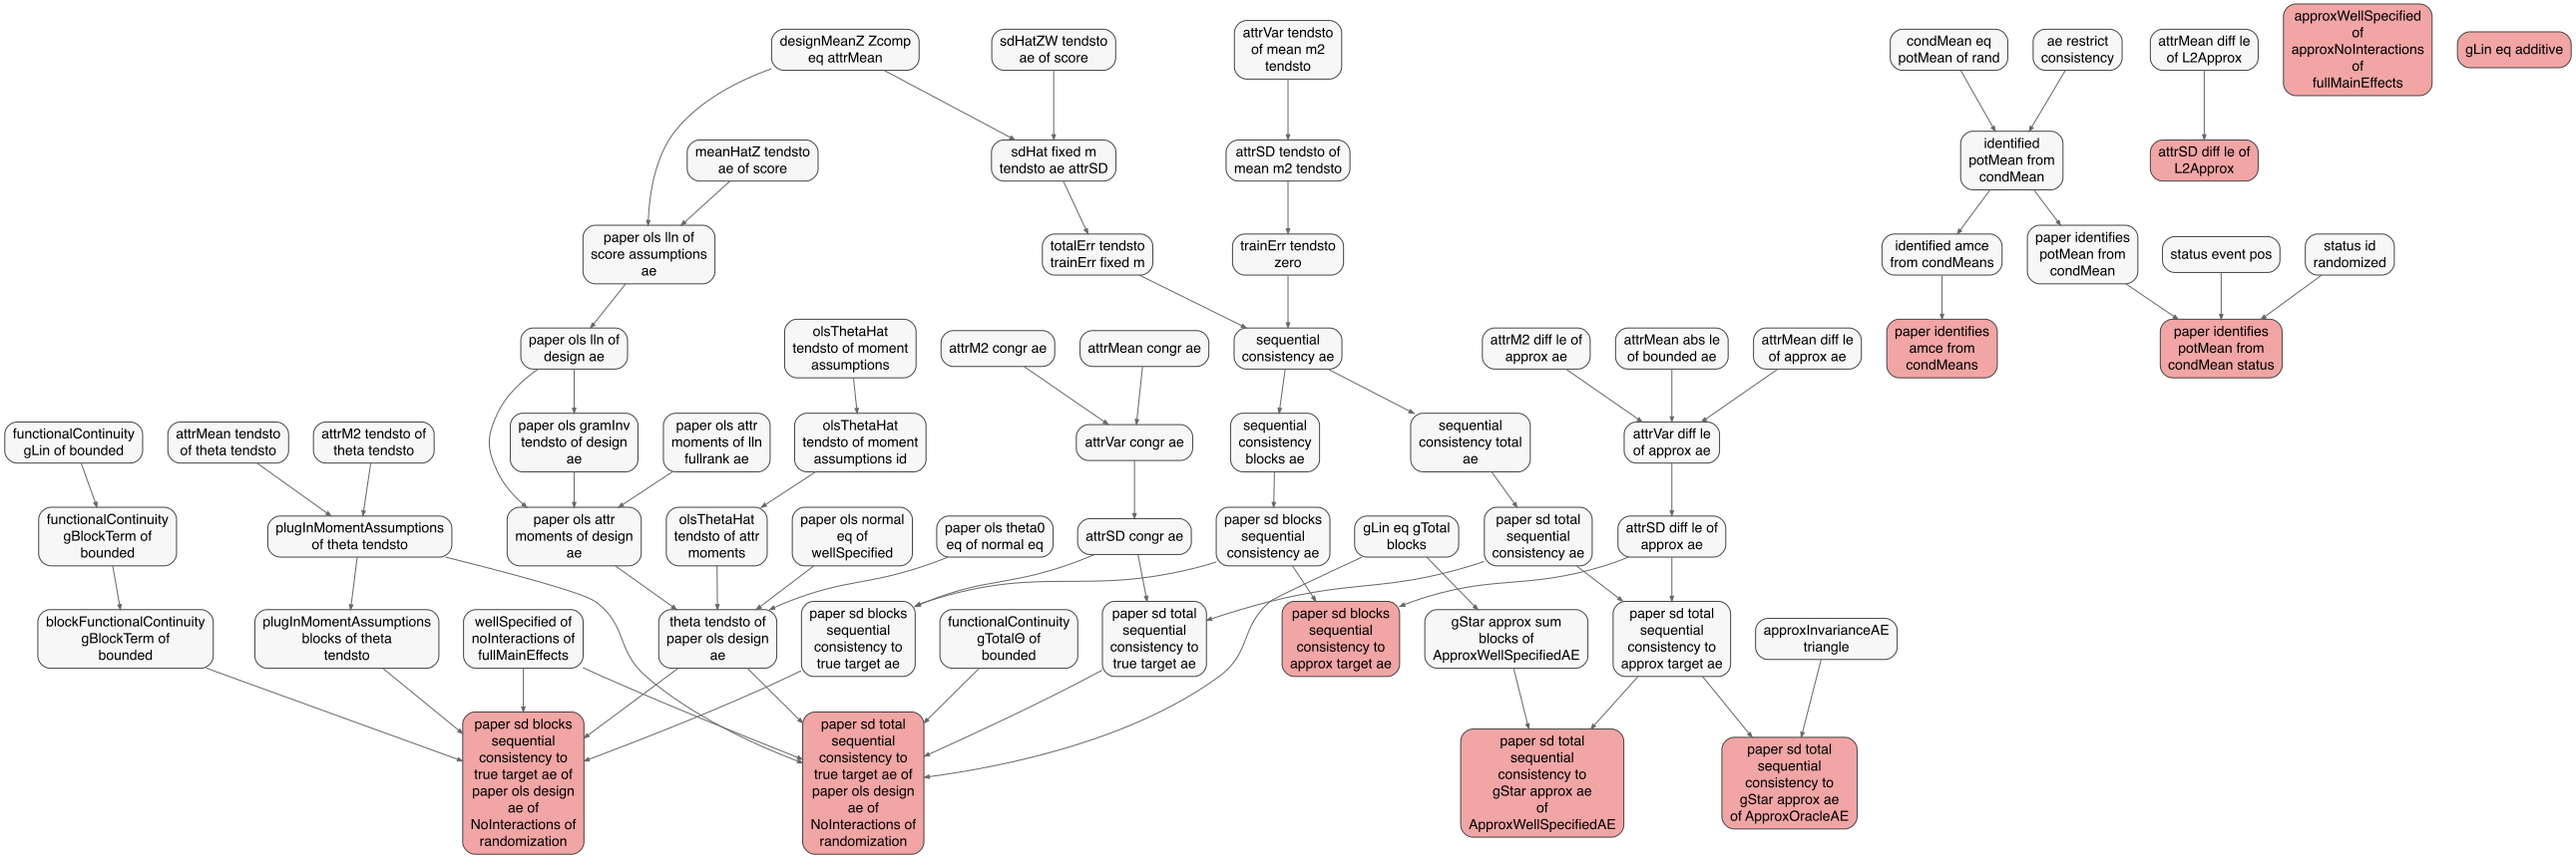
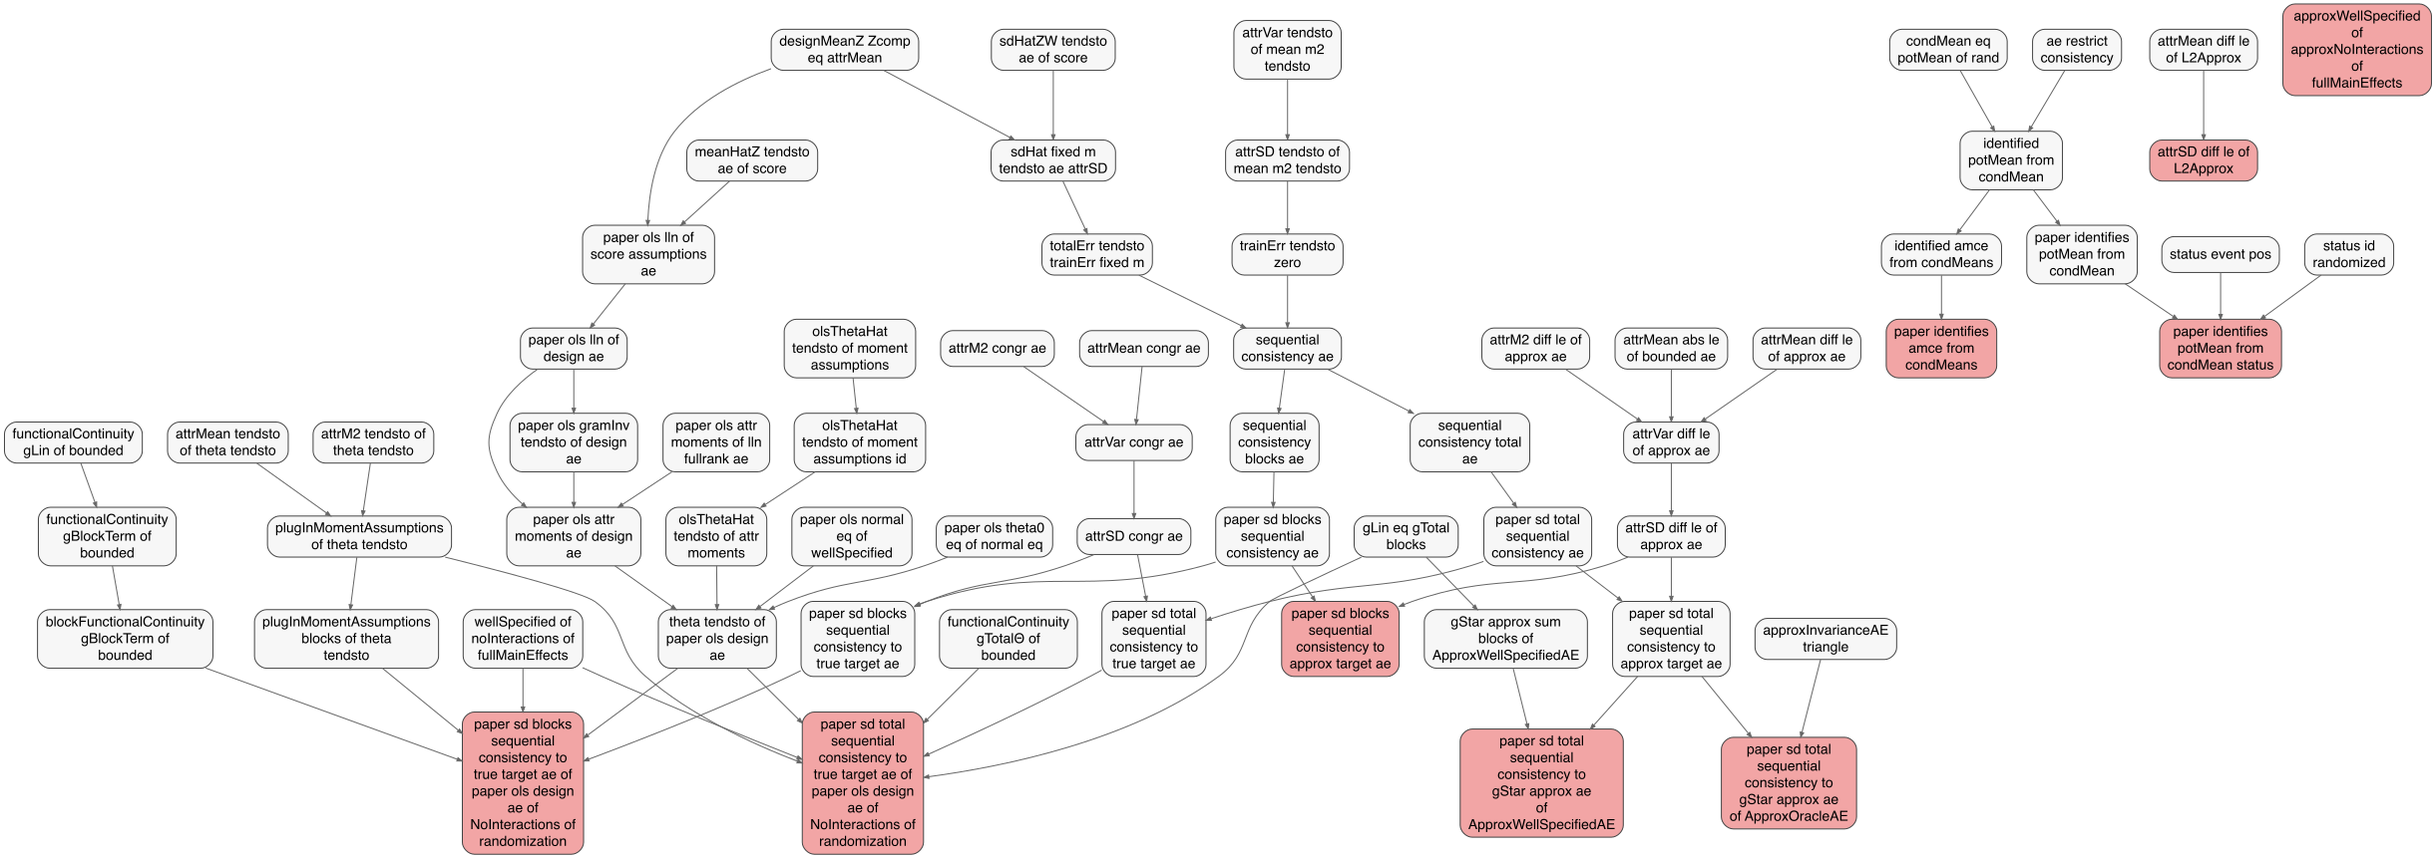
small deletions

diff --git a/dependency_tables.md b/dependency_tables.md
@@ -66,7 +66,6 @@ output of `Scratch.lean`.
 <col style="width: 4%" />
 <col style="width: 1%" />
 <col style="width: 1%" />
-<col style="width: 0%" />
 <col style="width: 1%" />
 <col style="width: 1%" />
 <col style="width: 1%" />
@@ -161,7 +160,6 @@ true target ae of paper ols design ae of NoInteractions of
 randomization</th>
 <th style="text-align: left;">attrVar tendsto of mean m2 tendsto</th>
 <th style="text-align: left;">designMeanZ Zcomp eq attrMean</th>
-<th style="text-align: left;">gLin eq additive</th>
 <th style="text-align: left;">paper ols attr moments of lln fullrank
 ae</th>
 <th style="text-align: left;">paper ols lln of design ae</th>
@@ -230,7 +228,6 @@ fullMainEffects</th>
 <td style="text-align: left;">❌</td>
 <td style="text-align: left;">✅</td>
 <td style="text-align: left;">✅</td>
-<td style="text-align: left;">❌</td>
 <td style="text-align: left;">❌</td>
 <td style="text-align: left;">❌</td>
 <td style="text-align: left;">❌</td>
@@ -311,7 +308,6 @@ fullMainEffects</th>
 <td style="text-align: left;">❌</td>
 <td style="text-align: left;">❌</td>
 <td style="text-align: left;">❌</td>
-<td style="text-align: left;">❌</td>
 </tr>
 <tr>
 <td style="text-align: left;">ApproxOracleAE</td>
@@ -370,7 +366,6 @@ fullMainEffects</th>
 <td style="text-align: left;">❌</td>
 <td style="text-align: left;">❌</td>
 <td style="text-align: left;">✅</td>
-<td style="text-align: left;">❌</td>
 <td style="text-align: left;">❌</td>
 <td style="text-align: left;">❌</td>
 <td style="text-align: left;">❌</td>
@@ -451,7 +446,6 @@ fullMainEffects</th>
 <td style="text-align: left;">❌</td>
 <td style="text-align: left;">❌</td>
 <td style="text-align: left;">❌</td>
-<td style="text-align: left;">❌</td>
 </tr>
 <tr>
 <td style="text-align: left;">AttrMomentAssumptions int2</td>
@@ -510,7 +504,6 @@ fullMainEffects</th>
 <td style="text-align: left;">❌</td>
 <td style="text-align: left;">✅</td>
 <td style="text-align: left;">✅</td>
-<td style="text-align: left;">❌</td>
 <td style="text-align: left;">❌</td>
 <td style="text-align: left;">❌</td>
 <td style="text-align: left;">❌</td>
@@ -592,7 +585,6 @@ cont</td>
 <td style="text-align: left;">❌</td>
 <td style="text-align: left;">❌</td>
 <td style="text-align: left;">❌</td>
-<td style="text-align: left;">❌</td>
 </tr>
 <tr>
 <td style="text-align: left;">BoundedAE</td>
@@ -657,7 +649,6 @@ cont</td>
 <td style="text-align: left;">❌</td>
 <td style="text-align: left;">❌</td>
 <td style="text-align: left;">❌</td>
-<td style="text-align: left;">❌</td>
 <td style="text-align: left;">✅</td>
 <td style="text-align: left;">❌</td>
 <td style="text-align: left;">❌</td>
@@ -713,7 +704,6 @@ cont</td>
 <td style="text-align: left;">✅</td>
 <td style="text-align: left;">✅</td>
 <td style="text-align: left;">✅</td>
-<td style="text-align: left;">❌</td>
 <td style="text-align: left;">❌</td>
 <td style="text-align: left;">❌</td>
 <td style="text-align: left;">❌</td>
@@ -800,7 +790,6 @@ cont</td>
 <td style="text-align: left;">❌</td>
 <td style="text-align: left;">❌</td>
 <td style="text-align: left;">❌</td>
-<td style="text-align: left;">❌</td>
 <td style="text-align: left;">✅</td>
 <td style="text-align: left;">❌</td>
 </tr>
@@ -853,7 +842,6 @@ cont</td>
 <td style="text-align: left;">✅</td>
 <td style="text-align: left;">✅</td>
 <td style="text-align: left;">✅</td>
-<td style="text-align: left;">❌</td>
 <td style="text-align: left;">❌</td>
 <td style="text-align: left;">❌</td>
 <td style="text-align: left;">❌</td>
@@ -940,7 +928,6 @@ cont</td>
 <td style="text-align: left;">❌</td>
 <td style="text-align: left;">❌</td>
 <td style="text-align: left;">❌</td>
-<td style="text-align: left;">❌</td>
 <td style="text-align: left;">✅</td>
 <td style="text-align: left;">❌</td>
 </tr>
@@ -993,7 +980,6 @@ cont</td>
 <td style="text-align: left;">✅</td>
 <td style="text-align: left;">✅</td>
 <td style="text-align: left;">✅</td>
-<td style="text-align: left;">❌</td>
 <td style="text-align: left;">❌</td>
 <td style="text-align: left;">❌</td>
 <td style="text-align: left;">❌</td>
@@ -1080,7 +1066,6 @@ cont</td>
 <td style="text-align: left;">❌</td>
 <td style="text-align: left;">❌</td>
 <td style="text-align: left;">❌</td>
-<td style="text-align: left;">❌</td>
 <td style="text-align: left;">✅</td>
 <td style="text-align: left;">❌</td>
 </tr>
@@ -1145,7 +1130,6 @@ randomization</td>
 <td style="text-align: left;">✅</td>
 <td style="text-align: left;">✅</td>
 <td style="text-align: left;">✅</td>
-<td style="text-align: left;">❌</td>
 <td style="text-align: left;">❌</td>
 <td style="text-align: left;">❌</td>
 <td style="text-align: left;">❌</td>
@@ -1218,7 +1202,6 @@ randomization</td>
 <td style="text-align: left;">❌</td>
 <td style="text-align: left;">❌</td>
 <td style="text-align: left;">❌</td>
-<td style="text-align: left;">❌</td>
 <td style="text-align: left;">✅</td>
 <td style="text-align: left;">✅</td>
 <td style="text-align: left;">❌</td>
@@ -1288,7 +1271,6 @@ randomization</td>
 <td style="text-align: left;">❌</td>
 <td style="text-align: left;">❌</td>
 <td style="text-align: left;">❌</td>
-<td style="text-align: left;">❌</td>
 <td style="text-align: left;">✅</td>
 <td style="text-align: left;">✅</td>
 <td style="text-align: left;">❌</td>
@@ -1355,7 +1337,6 @@ randomization</td>
 <td style="text-align: left;">✅</td>
 <td style="text-align: left;">✅</td>
 <td style="text-align: left;">✅</td>
-<td style="text-align: left;">❌</td>
 <td style="text-align: left;">❌</td>
 <td style="text-align: left;">❌</td>
 <td style="text-align: left;">❌</td>
@@ -1433,7 +1414,6 @@ randomization</td>
 <td style="text-align: left;">❌</td>
 <td style="text-align: left;">❌</td>
 <td style="text-align: left;">❌</td>
-<td style="text-align: left;">❌</td>
 </tr>
 <tr>
 <td style="text-align: left;">EvalAttrIID indepA</td>
@@ -1495,7 +1475,6 @@ randomization</td>
 <td style="text-align: left;">❌</td>
 <td style="text-align: left;">✅</td>
 <td style="text-align: left;">✅</td>
-<td style="text-align: left;">❌</td>
 <td style="text-align: left;">❌</td>
 <td style="text-align: left;">❌</td>
 <td style="text-align: left;">❌</td>
@@ -1573,7 +1552,6 @@ randomization</td>
 <td style="text-align: left;">❌</td>
 <td style="text-align: left;">❌</td>
 <td style="text-align: left;">❌</td>
-<td style="text-align: left;">❌</td>
 </tr>
 <tr>
 <td style="text-align: left;">EvalWeightMatchesPopMoments measA0</td>
@@ -1635,7 +1613,6 @@ randomization</td>
 <td style="text-align: left;">❌</td>
 <td style="text-align: left;">✅</td>
 <td style="text-align: left;">✅</td>
-<td style="text-align: left;">❌</td>
 <td style="text-align: left;">❌</td>
 <td style="text-align: left;">❌</td>
 <td style="text-align: left;">❌</td>
@@ -1712,7 +1689,6 @@ randomization</td>
 <td style="text-align: left;">❌</td>
 <td style="text-align: left;">❌</td>
 <td style="text-align: left;">❌</td>
-<td style="text-align: left;">❌</td>
 <td style="text-align: left;">✅</td>
 </tr>
 <tr>
@@ -1778,7 +1754,6 @@ randomization</td>
 <td style="text-align: left;">❌</td>
 <td style="text-align: left;">❌</td>
 <td style="text-align: left;">❌</td>
-<td style="text-align: left;">❌</td>
 <td style="text-align: left;">✅</td>
 <td style="text-align: left;">✅</td>
 <td style="text-align: left;">❌</td>
@@ -1823,7 +1798,6 @@ randomization</td>
 <td style="text-align: left;">❌</td>
 <td style="text-align: left;">✅</td>
 <td style="text-align: left;">✅</td>
-<td style="text-align: left;">❌</td>
 <td style="text-align: left;">❌</td>
 <td style="text-align: left;">❌</td>
 <td style="text-align: left;">❌</td>
@@ -1918,7 +1892,6 @@ randomization</td>
 <td style="text-align: left;">❌</td>
 <td style="text-align: left;">❌</td>
 <td style="text-align: left;">❌</td>
-<td style="text-align: left;">❌</td>
 <td style="text-align: left;">✅</td>
 <td style="text-align: left;">❌</td>
 <td style="text-align: left;">❌</td>
@@ -1989,7 +1962,6 @@ zero</td>
 <td style="text-align: left;">❌</td>
 <td style="text-align: left;">❌</td>
 <td style="text-align: left;">❌</td>
-<td style="text-align: left;">❌</td>
 <td style="text-align: left;">✅</td>
 <td style="text-align: left;">✅</td>
 <td style="text-align: left;">❌</td>
@@ -2056,7 +2028,6 @@ zero</td>
 <td style="text-align: left;">✅</td>
 <td style="text-align: left;">✅</td>
 <td style="text-align: left;">✅</td>
-<td style="text-align: left;">❌</td>
 <td style="text-align: left;">❌</td>
 <td style="text-align: left;">❌</td>
 <td style="text-align: left;">❌</td>
@@ -2134,7 +2105,6 @@ zero</td>
 <td style="text-align: left;">❌</td>
 <td style="text-align: left;">❌</td>
 <td style="text-align: left;">❌</td>
-<td style="text-align: left;">❌</td>
 </tr>
 <tr>
 <td style="text-align: left;">OLSMomentAssumptions crossLimit</td>
@@ -2196,7 +2166,6 @@ zero</td>
 <td style="text-align: left;">❌</td>
 <td style="text-align: left;">✅</td>
 <td style="text-align: left;">✅</td>
-<td style="text-align: left;">❌</td>
 <td style="text-align: left;">❌</td>
 <td style="text-align: left;">❌</td>
 <td style="text-align: left;">❌</td>
@@ -2274,7 +2243,6 @@ zero</td>
 <td style="text-align: left;">❌</td>
 <td style="text-align: left;">❌</td>
 <td style="text-align: left;">❌</td>
-<td style="text-align: left;">❌</td>
 </tr>
 <tr>
 <td style="text-align: left;">OLSMomentAssumptions gramInvLimit</td>
@@ -2336,7 +2304,6 @@ zero</td>
 <td style="text-align: left;">❌</td>
 <td style="text-align: left;">✅</td>
 <td style="text-align: left;">✅</td>
-<td style="text-align: left;">❌</td>
 <td style="text-align: left;">❌</td>
 <td style="text-align: left;">❌</td>
 <td style="text-align: left;">❌</td>
@@ -2409,7 +2376,6 @@ tendsto</td>
 <td style="text-align: left;">✅</td>
 <td style="text-align: left;">❌</td>
 <td style="text-align: left;">❌</td>
-<td style="text-align: left;">❌</td>
 <td style="text-align: left;">✅</td>
 <td style="text-align: left;">❌</td>
 <td style="text-align: left;">❌</td>
@@ -2478,7 +2444,6 @@ tendsto</td>
 <td style="text-align: left;">✅</td>
 <td style="text-align: left;">✅</td>
 <td style="text-align: left;">✅</td>
-<td style="text-align: left;">❌</td>
 <td style="text-align: left;">❌</td>
 <td style="text-align: left;">❌</td>
 <td style="text-align: left;">✅</td>
@@ -2552,7 +2517,6 @@ fInter</td>
 <td style="text-align: left;">❌</td>
 <td style="text-align: left;">❌</td>
 <td style="text-align: left;">❌</td>
-<td style="text-align: left;">❌</td>
 <td style="text-align: left;">✅</td>
 <td style="text-align: left;">❌</td>
 <td style="text-align: left;">❌</td>
@@ -2619,7 +2583,6 @@ fInter</td>
 <td style="text-align: left;">✅</td>
 <td style="text-align: left;">✅</td>
 <td style="text-align: left;">✅</td>
-<td style="text-align: left;">❌</td>
 <td style="text-align: left;">❌</td>
 <td style="text-align: left;">❌</td>
 <td style="text-align: left;">❌</td>
@@ -2692,7 +2655,6 @@ fInter</td>
 <td style="text-align: left;">❌</td>
 <td style="text-align: left;">❌</td>
 <td style="text-align: left;">❌</td>
-<td style="text-align: left;">❌</td>
 <td style="text-align: left;">✅</td>
 <td style="text-align: left;">❌</td>
 <td style="text-align: left;">❌</td>
@@ -2759,7 +2721,6 @@ fInter</td>
 <td style="text-align: left;">✅</td>
 <td style="text-align: left;">✅</td>
 <td style="text-align: left;">✅</td>
-<td style="text-align: left;">❌</td>
 <td style="text-align: left;">❌</td>
 <td style="text-align: left;">❌</td>
 <td style="text-align: left;">❌</td>
@@ -2838,7 +2799,6 @@ isUnit</td>
 <td style="text-align: left;">❌</td>
 <td style="text-align: left;">❌</td>
 <td style="text-align: left;">❌</td>
-<td style="text-align: left;">❌</td>
 </tr>
 <tr>
 <td style="text-align: left;">PlugInMomentAssumptions m2 tendsto</td>
@@ -2900,7 +2860,6 @@ isUnit</td>
 <td style="text-align: left;">❌</td>
 <td style="text-align: left;">✅</td>
 <td style="text-align: left;">✅</td>
-<td style="text-align: left;">❌</td>
 <td style="text-align: left;">❌</td>
 <td style="text-align: left;">❌</td>
 <td style="text-align: left;">❌</td>
@@ -2978,7 +2937,6 @@ isUnit</td>
 <td style="text-align: left;">❌</td>
 <td style="text-align: left;">❌</td>
 <td style="text-align: left;">❌</td>
-<td style="text-align: left;">❌</td>
 </tr>
 <tr>
 <td style="text-align: left;">ScoreAssumptions int g0 sq</td>
@@ -3048,12 +3006,10 @@ isUnit</td>
 <td style="text-align: left;">❌</td>
 <td style="text-align: left;">❌</td>
 <td style="text-align: left;">❌</td>
-<td style="text-align: left;">❌</td>
 </tr>
 <tr>
 <td style="text-align: left;">ScoreAssumptions meas g</td>
 <td style="text-align: left;">0</td>
-<td style="text-align: left;">❌</td>
 <td style="text-align: left;">❌</td>
 <td style="text-align: left;">❌</td>
 <td style="text-align: left;">❌</td>
@@ -3189,7 +3145,6 @@ hBoundW</td>
 <td style="text-align: left;">❌</td>
 <td style="text-align: left;">❌</td>
 <td style="text-align: left;">❌</td>
-<td style="text-align: left;">❌</td>
 </tr>
 <tr>
 <td style="text-align: left;">SplitEvalWeightAssumptionsBounded
@@ -3260,7 +3215,6 @@ hMeasW</td>
 <td style="text-align: left;">❌</td>
 <td style="text-align: left;">❌</td>
 <td style="text-align: left;">❌</td>
-<td style="text-align: left;">❌</td>
 </tr>
 </tbody>
 </table>
@@ -3269,7 +3223,7 @@ hMeasW</td>
 
 ## Theorem dependency DAG
 
-<img src="dependency_tables_files/theorem_dependency_dag.png" width="2582" />
+<img src="dependency_tables_files/theorem_dependency_dag.png" width="2442" />
 
 ## OLS SD consistency DAG (direct assumptions)
 

diff --git a/audit_report.md b/audit_report.md
@@ -3,7 +3,7 @@
 Target theorem: `paper_sd_blocks_sequential_consistency_to_true_target_ae_of_paper_ols_design_ae_of_NoInteractions_of_randomization`
 
 - Theorems in chain: 38
-- Theorems not in chain: 52
+- Theorems not in chain: 51
 - Assumptions required: 30
 - Assumptions not required: 16
 - Theorems not used by any other theorem: 24
@@ -98,7 +98,6 @@ Target theorem: `paper_sd_blocks_sequential_consistency_to_true_target_ae_of_pap
 - derive_mean_tendsto
 - derive_mean_tendsto_blocks
 - functionalContinuity_gPaper_of_bounded
-- gLin_eq_additive
 - sd_block_consistent
 - status_event_pos
 - status_id_randomized
